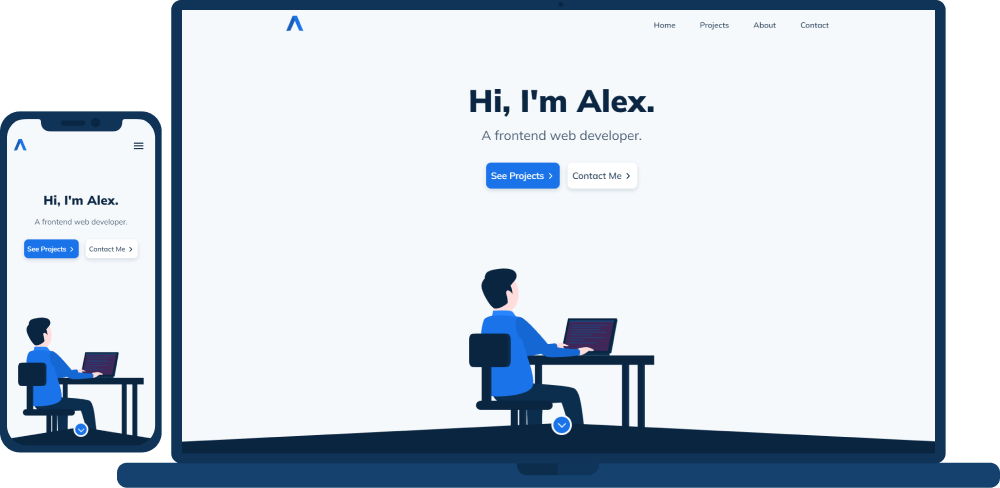
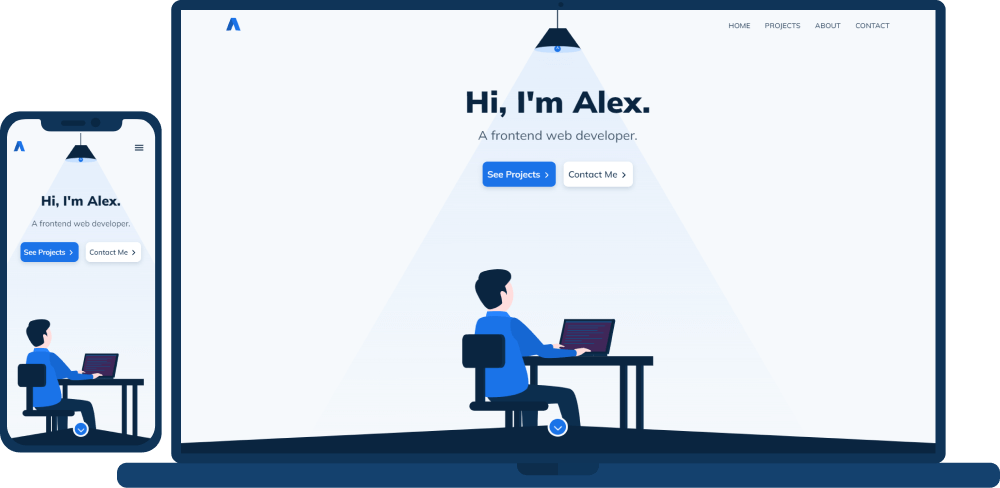
changed the effect of the nav anchors on hover, changed the mockup for the portofolio

diff --git a/index.html b/index.html
@@ -9,7 +9,7 @@
     <link rel="preconnect" href="https://fonts.googleapis.com" />
     <link rel="preconnect" href="https://fonts.gstatic.com" crossorigin />
     <link
-      href="https://fonts.googleapis.com/css2?family=Mulish:wght@400;600;700;900&display=swap"
+      href="https://fonts.googleapis.com/css2?family=Mulish:wght@400;500;600;700;900&display=swap"
       rel="stylesheet"
     />
     <link rel="stylesheet" href="style.css" />
@@ -72,26 +72,25 @@
           </button>
 
           <li
-            class="nav-link nav-about-link nav-link-target hero-section-anim-element"
-          >
-            <a href="#hero" class="nav-link-target"> Home </a>
+            class="nav-link nav-about-link nav-link-target hero-section-anim-element">
+            <a href="#hero" class="nav-link-target" data-hover="Home"> Home </a>
           </li>
 
           <li
             class="nav-link nav-projects-link nav-link-target hero-section-anim-element"
           >
-            <a href="/#projects" class="nav-link-target"> Projects </a>
+            <a href="/#projects" class="nav-link-target" data-hover="Projects"> Projects </a>
           </li>
 
           <li
             class="nav-link nav-about-link nav-link-target hero-section-anim-element"
           >
-            <a href="/#about" class="nav-link-target"> About </a>
+            <a href="/#about" class="nav-link-target" data-hover="About"> About </a>
           </li>
           <li
             class="nav-link nav-contact-link nav-link-target hero-section-anim-element"
           >
-            <a href="/#contact" class="nav-link-target"> Contact </a>
+            <a href="/#contact" class="nav-link-target" data-hover="Contact"> Contact </a>
           </li>
         </ul>
       </div>

diff --git a/style.css b/style.css
@@ -273,9 +273,9 @@ nav {
   color: var(--white-color);
 }
 
-.theme-dark-nav-fixed .nav-link:hover a,
-.ham-menu-open .nav-link:hover a {
-  color: var(--theme-dark-accent-color);
+.theme-dark-nav-fixed .nav-link a::after,
+.ham-menu-open .nav-link a::after {
+  color: var(--white-color);
 }
 
 .remove-nav-fixed {
@@ -329,16 +329,27 @@ nav {
   display: flex;
   align-items: center;
   position: relative;
-  font-size: 1.6rem;
+  font-size: 1.5rem;
   font-weight: 600;
+  text-transform: uppercase;
 }
 
-.nav-link:hover a {
-  color: var(--theme-white-accent-color);
+.nav-link a::after {
+  content: attr(data-hover);
+  color: var(--theme-white-color-1);
+  position: absolute;
+  overflow: hidden;
+  white-space: nowrap;
+  max-width: 0;
+  transition: .2s ease all;
+}
+
+.nav-link a:hover::after {
+  max-width: 100%;
 }
 
 .nav-link:not(:last-of-type) {
-  margin-right: 5rem;
+  margin-right: 3rem;
 }
 
 .nav-link a {
